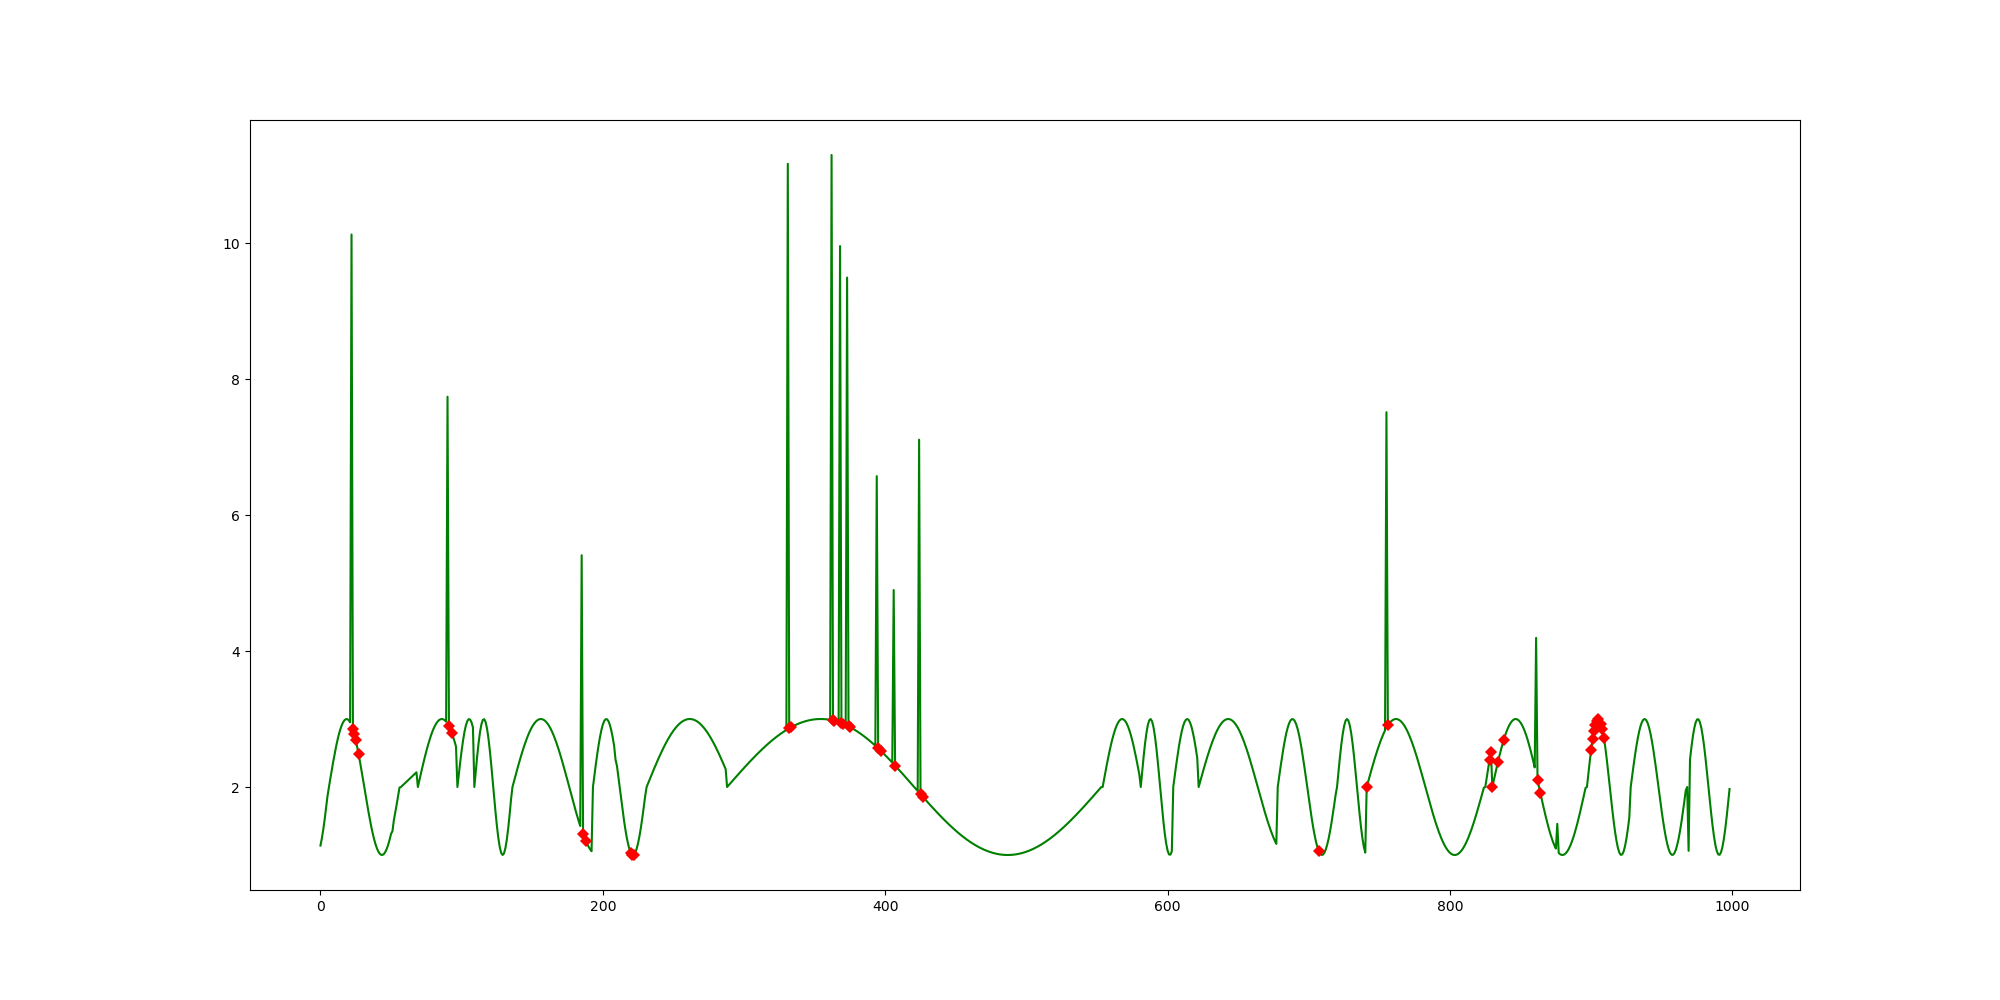
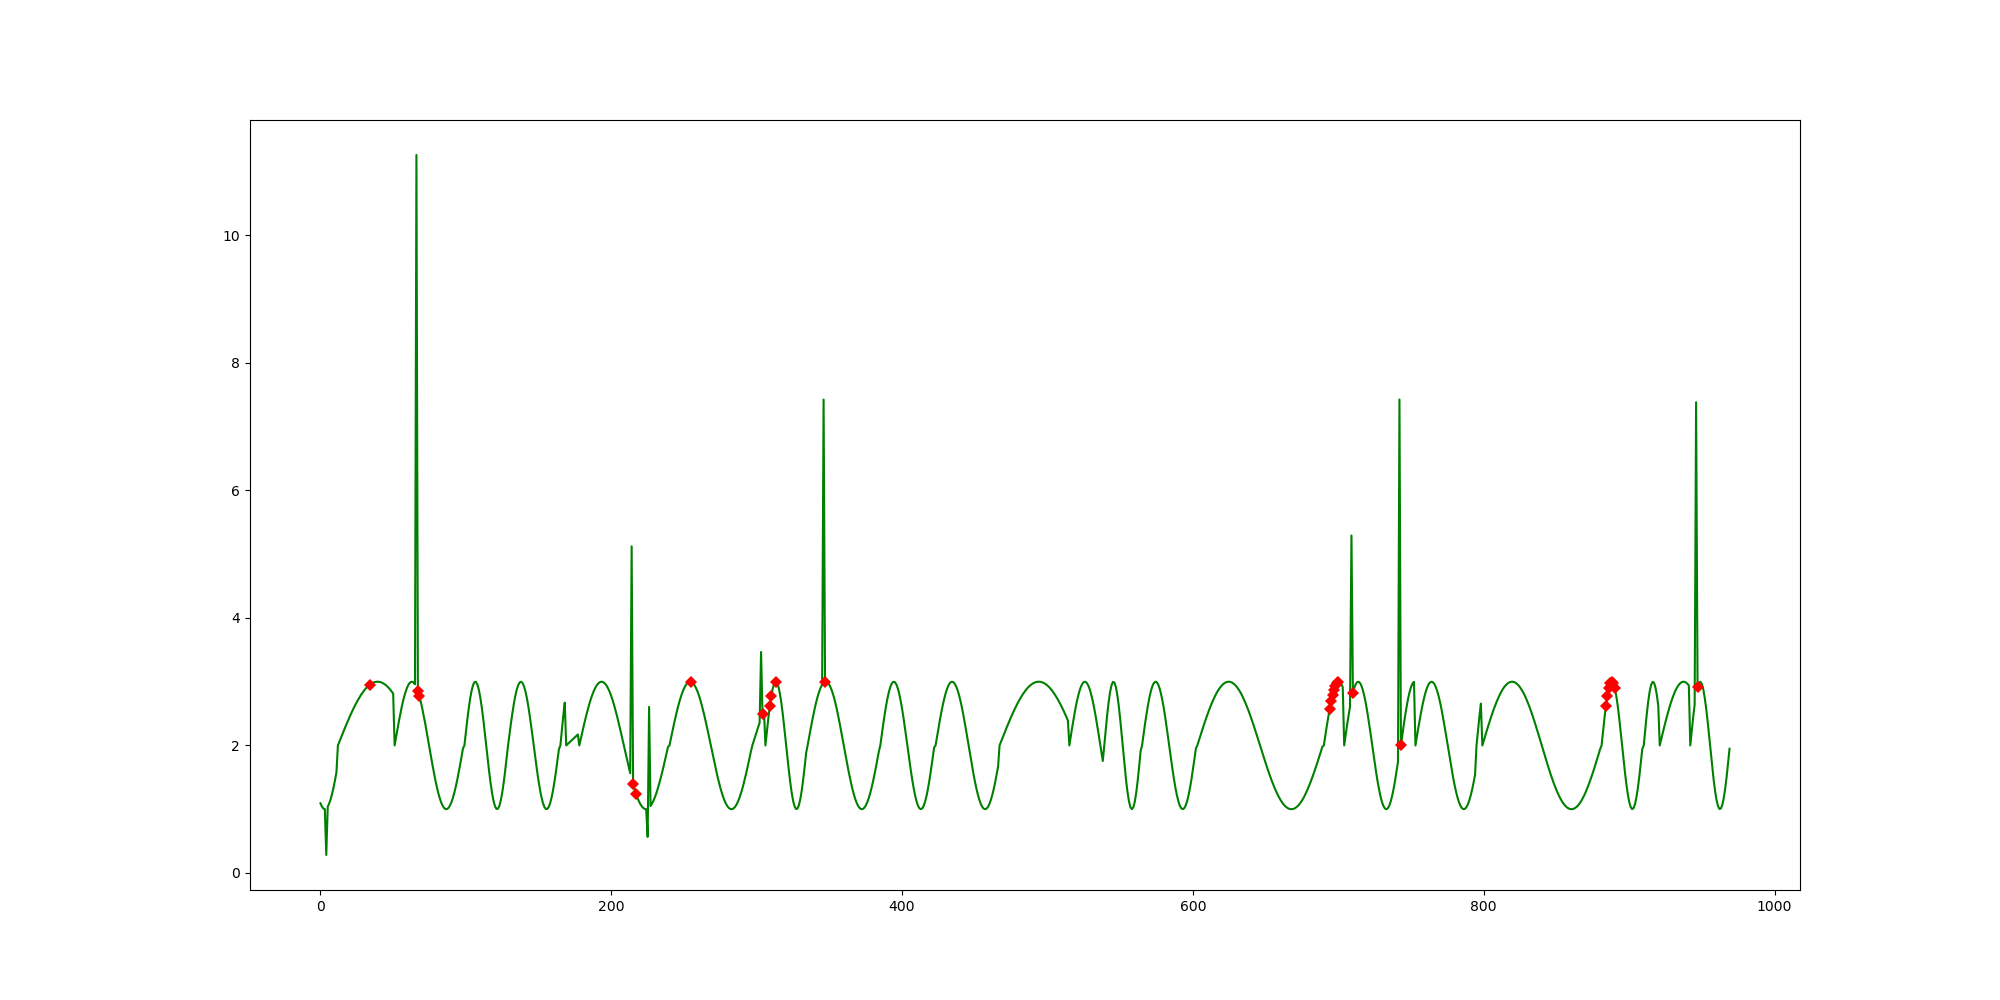
sinmodel fix

diff --git a/anomaly_threshold.py b/anomaly_threshold.py
@@ -108,15 +108,10 @@ for y1 in y_test:
 for ys in X_test_pred:
     pred_plot.append(ys[0] * (max_value - min_value) + min_value)
 
-for i in range(len(x_test)):
-    if i not in anomalies.index:
-        pred_plot[i] = (y_test[i][0] * (max_value - min_value)) + min_value
-    else:
-        pred_plot[i] = (pred_plot[i] + close_value[i] + close_value[i]) / 3
 
 plt.figure(figsize=(20, 10))
-plt.plot(pred_plot, '-rD', markevery=list(anomalies.index), markeredgewidth=0.02, markerfacecolor="green")
 plt.plot(y_plot, '-bD', markevery=list(anomalies.index), markeredgewidth=0.02, markerfacecolor="cyan")
+plt.plot(pred_plot, '-rD', markevery=list(anomalies.index), markeredgewidth=0.02, markerfacecolor="green")
 plt.savefig(f'{file_name}_normalised.png')
 
 # %%
@@ -131,5 +126,5 @@ plt.savefig(f'{file_name}_anomaly.png')
 plt.figure(figsize=(20, 10))
 plt.plot(pred_plot)
 plt.plot(y_plot)
-
+plt.savefig(f'{file_name}_diffrence.png')
 # %%

diff --git a/anomaly_threshold_sin.py b/anomaly_threshold_sin.py
@@ -100,11 +100,6 @@ for y1 in y_test:
 for ys in X_test_pred:
     pred_plot.append(ys[0] * (max_value - min_value) + min_value)
 
-for i in range(len(x_test)):
-    if i not in anomalies.index:
-        pred_plot[i] = (y_test[i][0] * (max_value - min_value)) + min_value
-    else:
-        pred_plot[i] = (pred_plot[i] + data[i] + data[i]) / 3
 
 plt.figure(figsize=(20, 10))
 plt.plot(pred_plot, '-rD', markevery=list(anomalies.index), markeredgewidth=0.02, markerfacecolor="green")
@@ -120,6 +115,6 @@ plt.savefig(f'{file_name}_anomaly.png')
 plt.figure(figsize=(20, 10))
 plt.plot(pred_plot)
 plt.plot(y_plot)
-
+plt.savefig(f'{file_name}_diffrence.png')
 
 

diff --git a/singen.py b/singen.py
@@ -51,10 +51,6 @@ if __name__ == '__main__':
         x_train.append(x_list)
         y_train.append([(values[i + TIME_STEPS][0] - min_value) / (max_value - min_value)])
 
-    x_test = x_train[0:10000]
-    x_train = x_train[10000:]
-    y_test = y_train[0:10000]
-    y_train = y_train[10000:]
     x_train = np.array(x_train)
 
     model = keras.Sequential()
